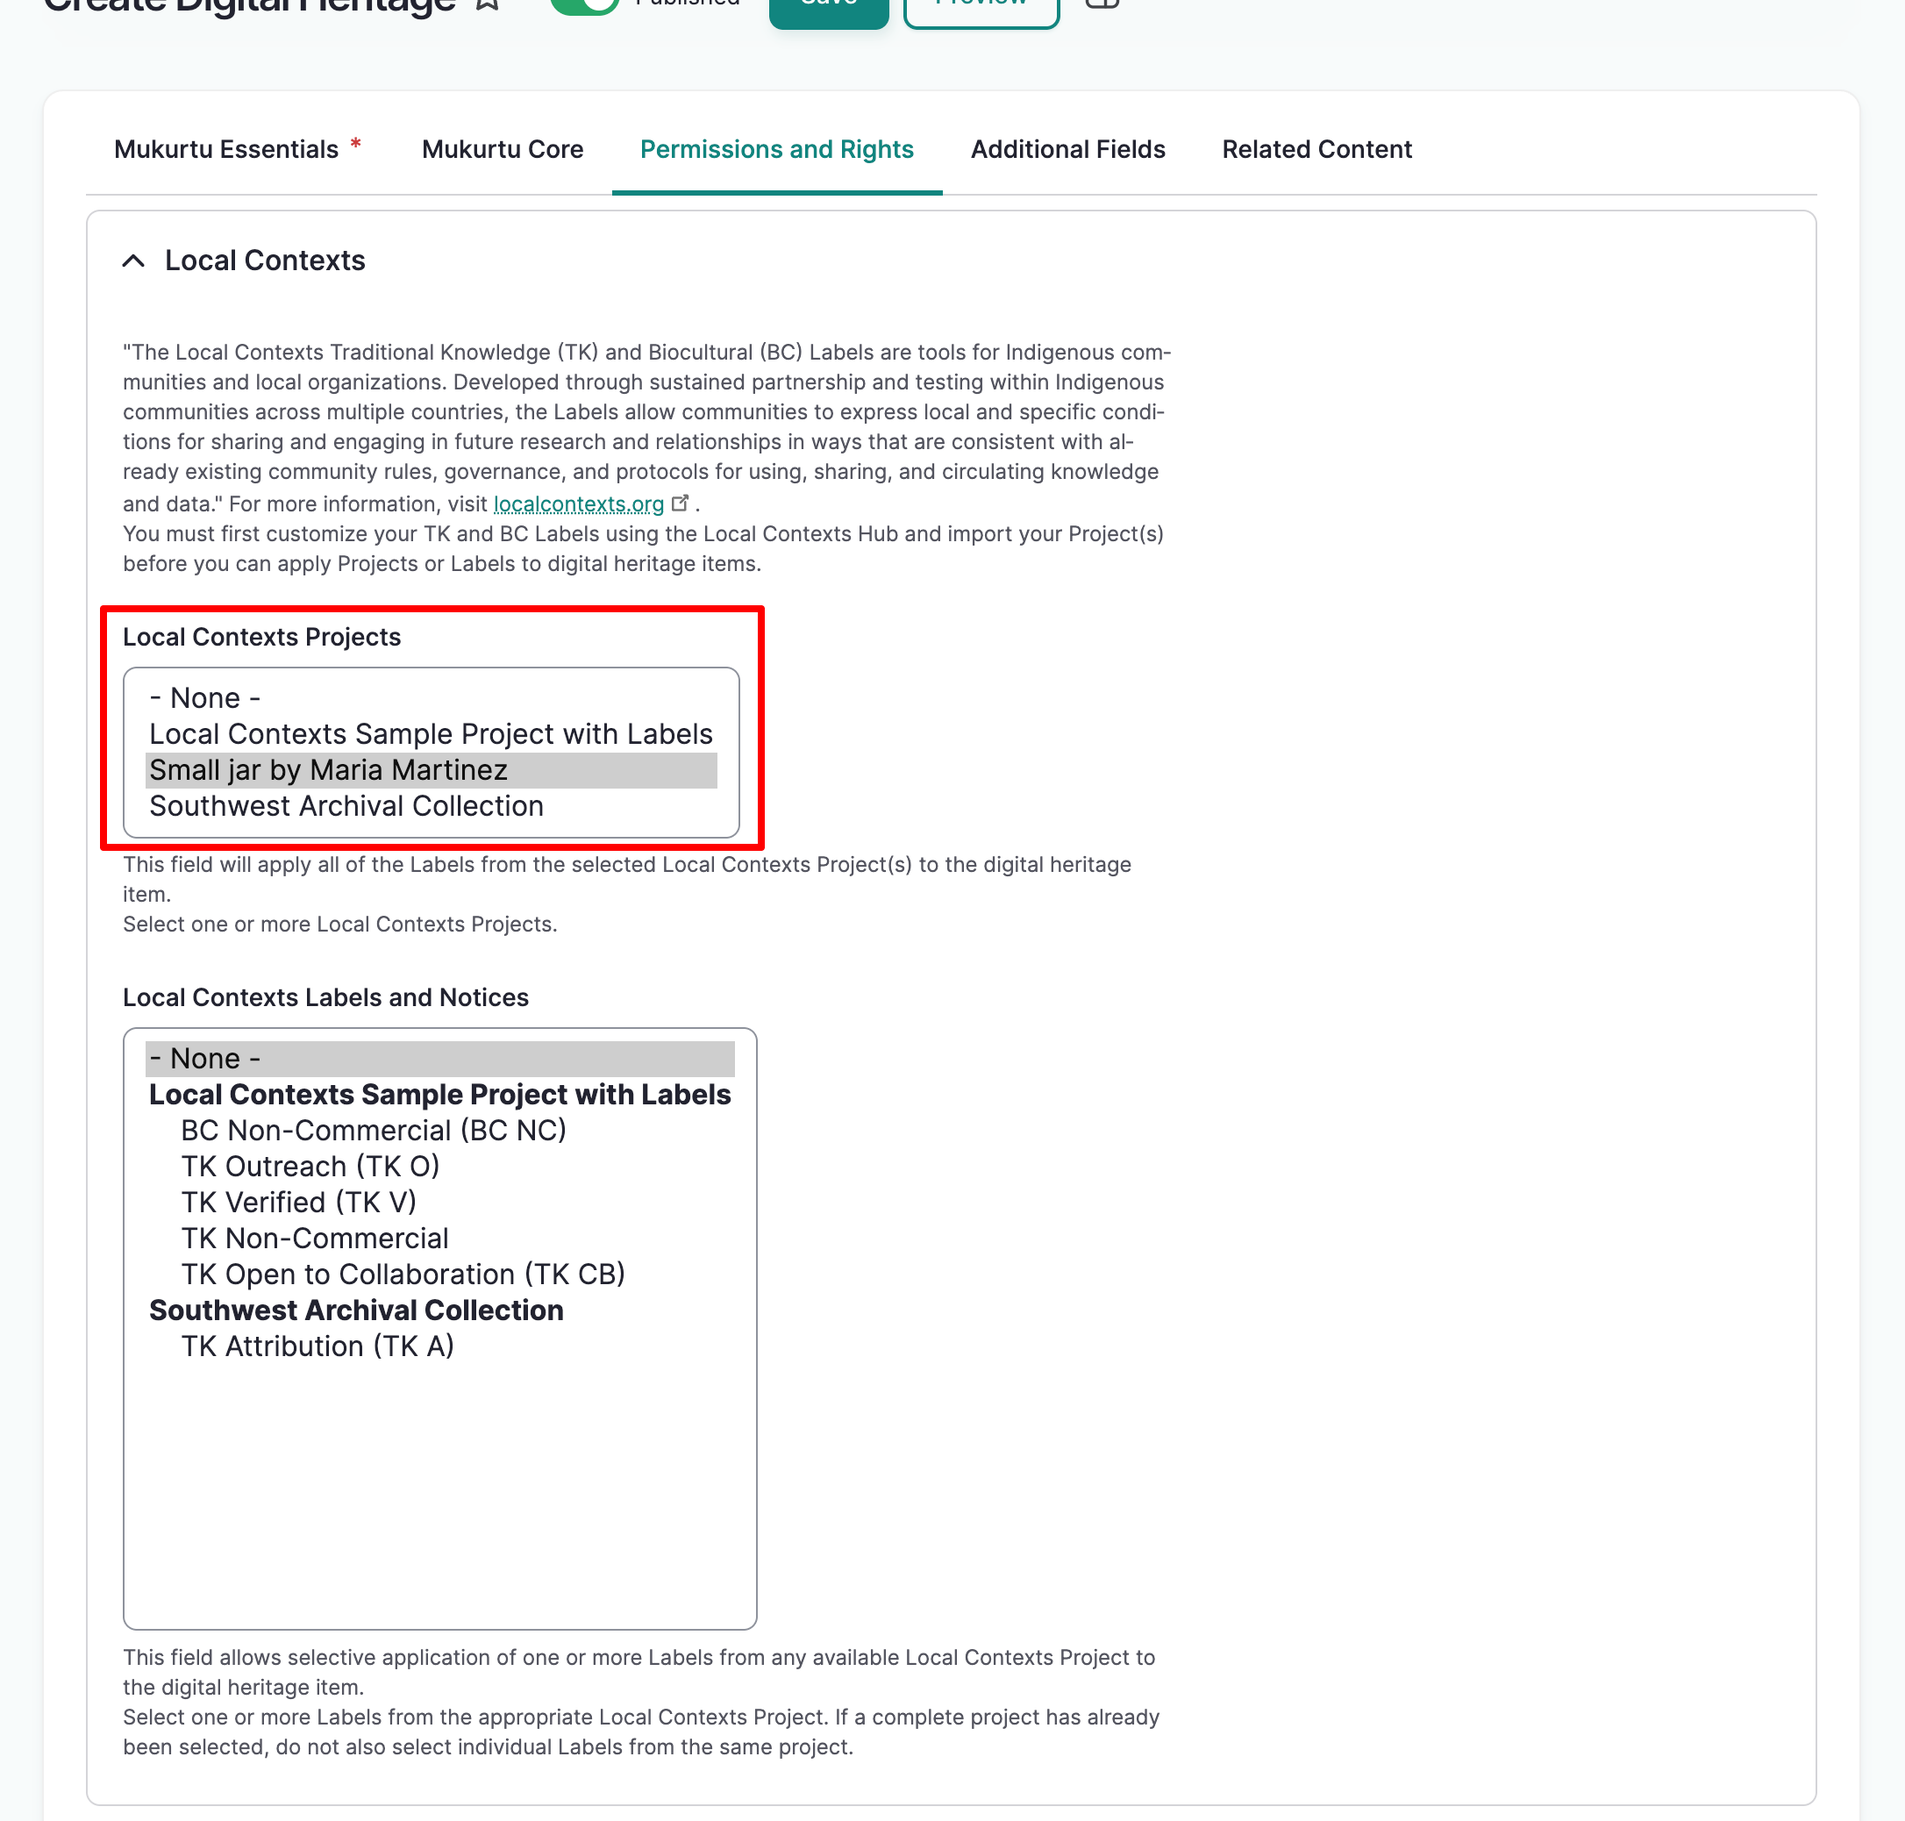
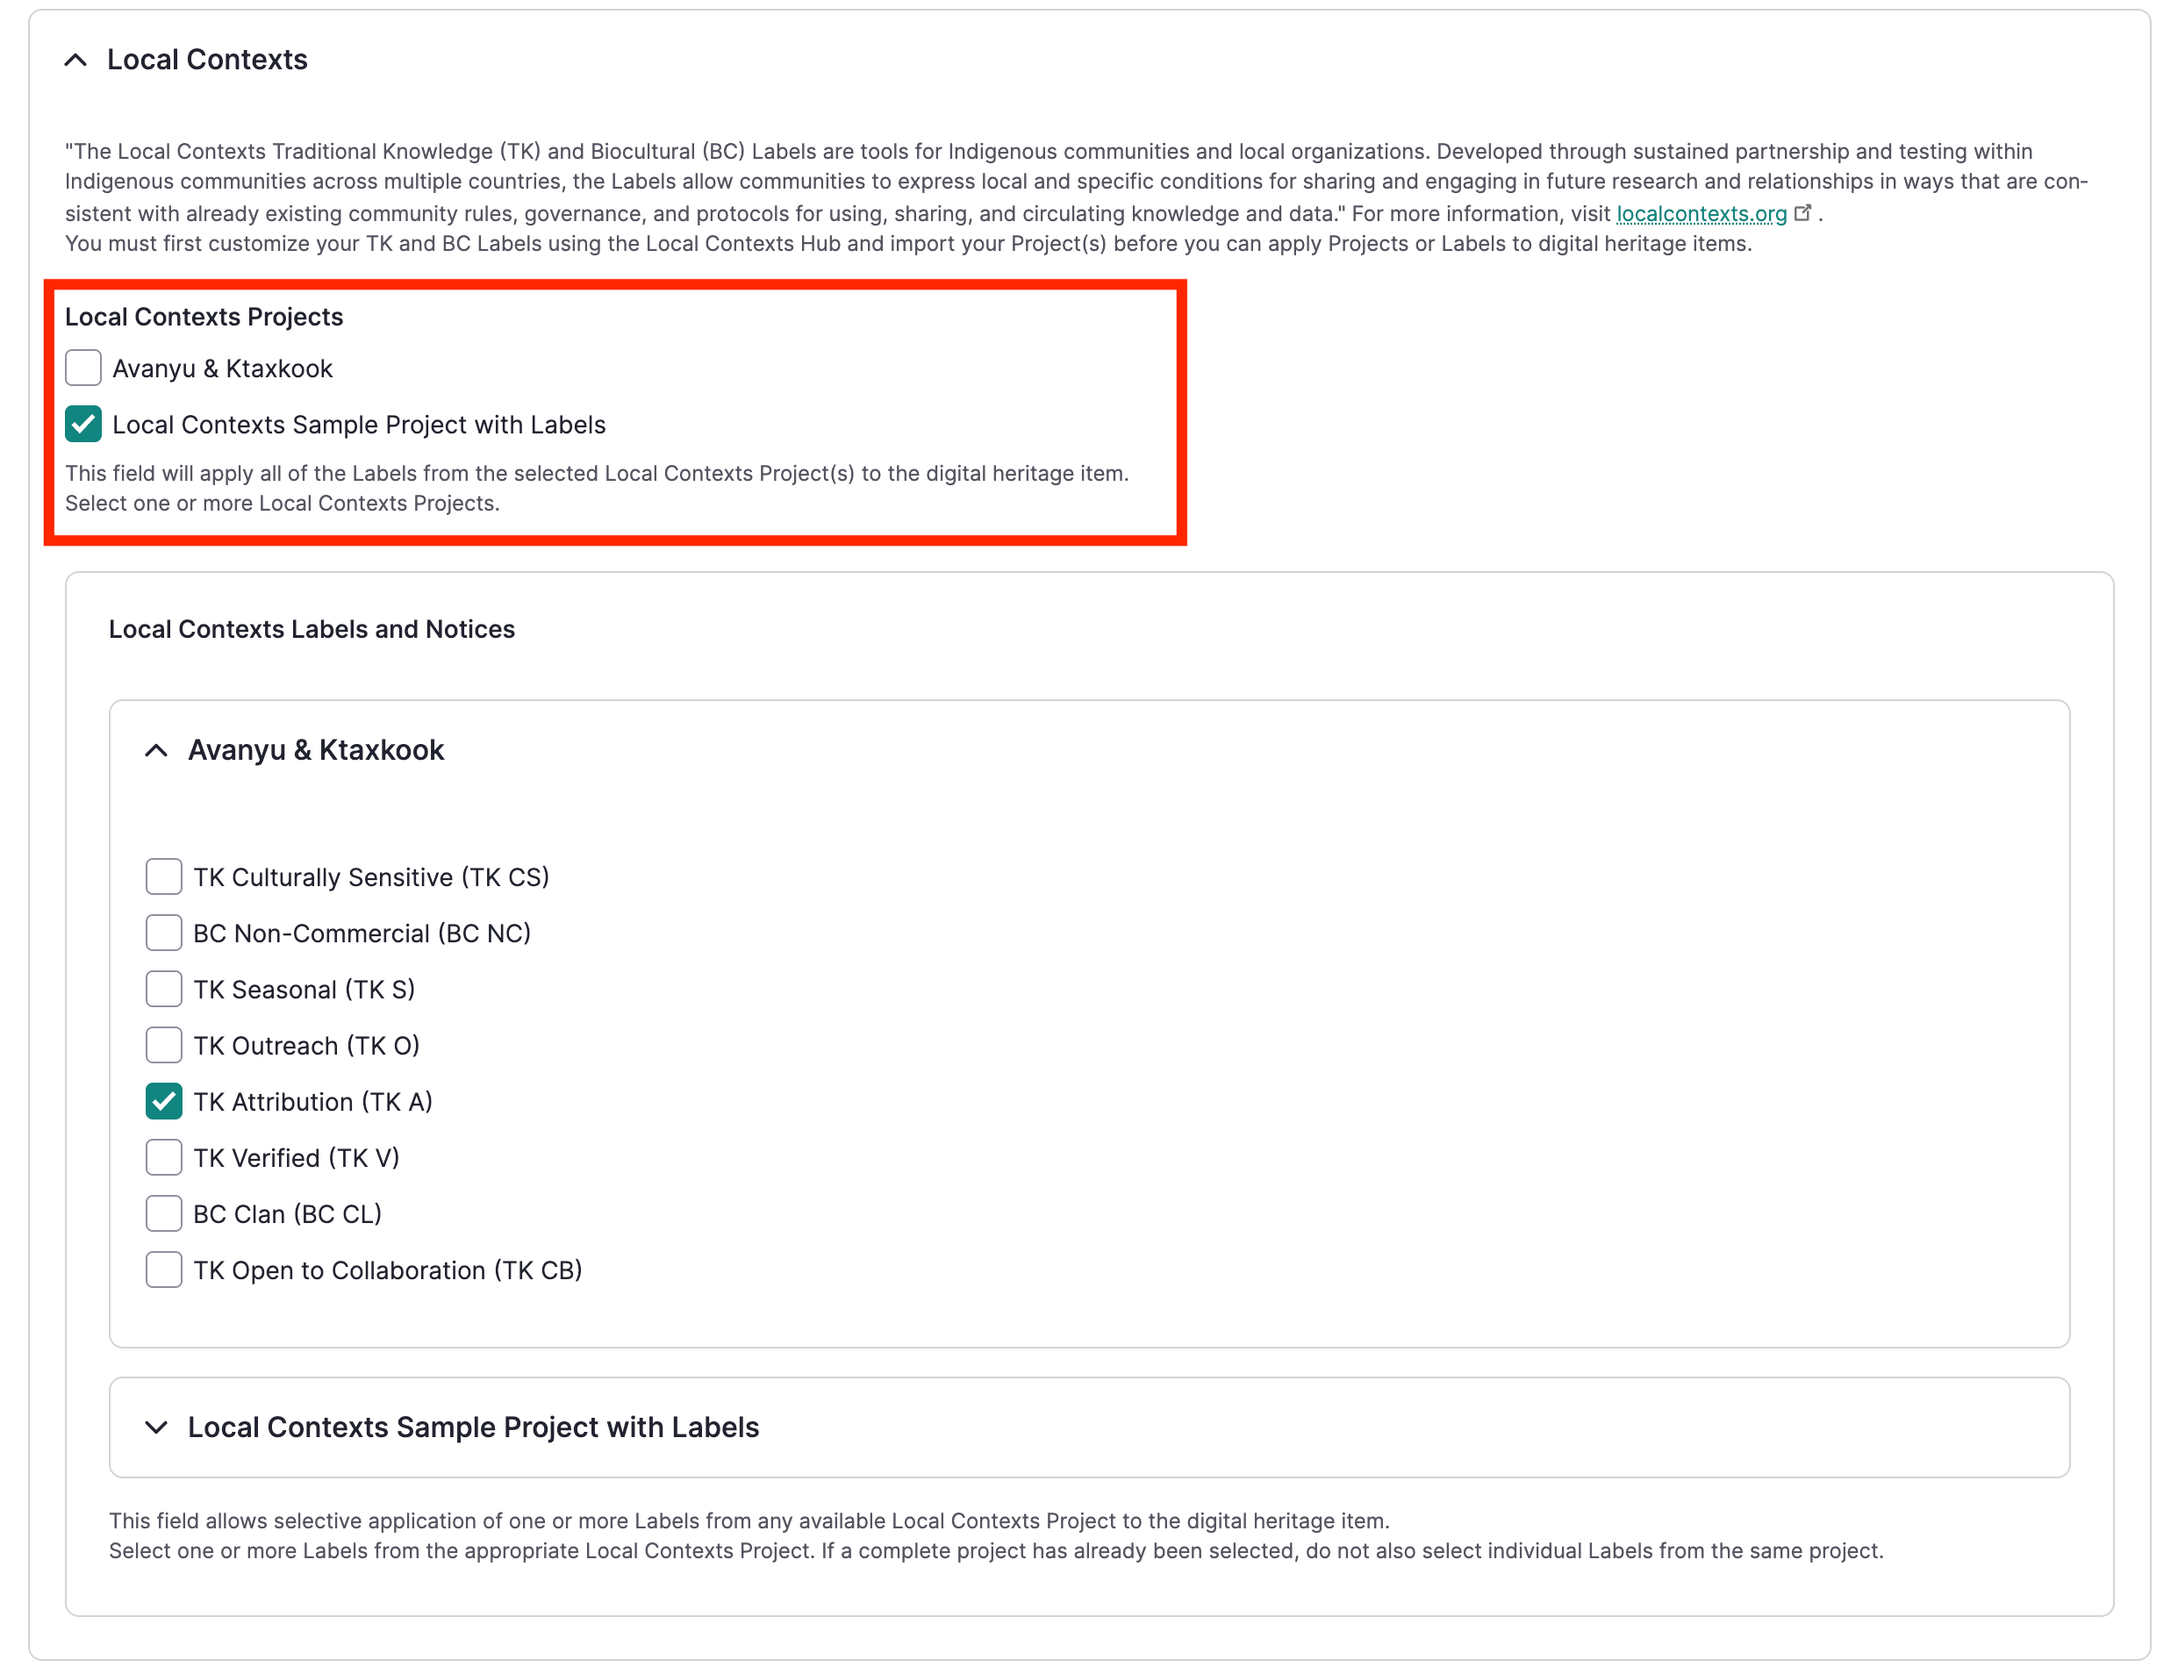
Updates to using labels and notices
Screenshot and small verbiage updates

diff --git a/docs/local-contexts/ApplyLabelsAndNoticesToSiteContent.md b/docs/local-contexts/ApplyLabelsAndNoticesToSiteContent.md
@@ -40,14 +40,12 @@ There are two ways to select Local Contexts labels and notices:
 
 You can apply entire projects to content, select labels and notices from within projects, or a combination of the two. 
 
-!!! Warning
-    If you select an entire project, do not also select individual labels or notices from that project, since they will be displayed twice.
 
 ## Apply an entire project
 
-The *Local Contexts Projects* field allows you to apply ALL the labels and notices within a project to your content.
+The *Local Contexts Projects* field allows you to apply ALL the labels and notices within a project to your content. 
 
-In the *Local Contexts Projects* field, select the project you wish to apply. 
+In the *Local Contexts Projects* field, select the project you wish to apply. If you select a project, you will not be able to select the projectʻs individual labels, since they have already been added.
 
 ![Local Contexts projects field with all available projects listed](../_embeds/apply-labels-01.png)
 
@@ -56,7 +54,7 @@ In the *Local Contexts Projects* field, select the project you wish to apply.
 
 The *Local Contexts Labels and Notices* field allows you to select individual labels and notices to apply to your content. 
 
-In the *Local Contexts Labels and Notices* field, select the labels and notices you wish to apply. 
+In the *Local Contexts Labels and Notices* field, select the labels and notices you wish to apply. If you select a label, then select the project the label belongs to, the label will be automatically deselected.
 
 ![Local Contexts labels and notices field with all available labels listed](../_embeds/apply-labels-02.png)
 
